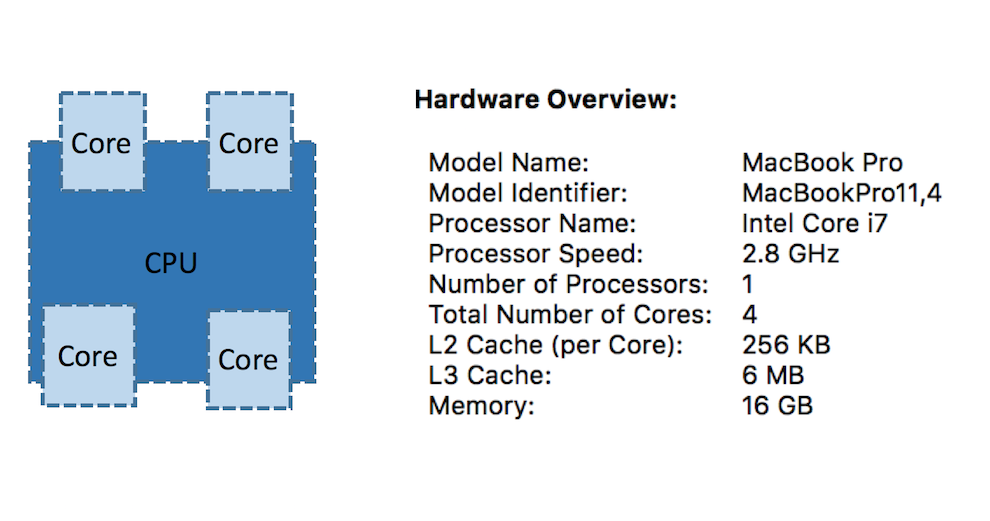
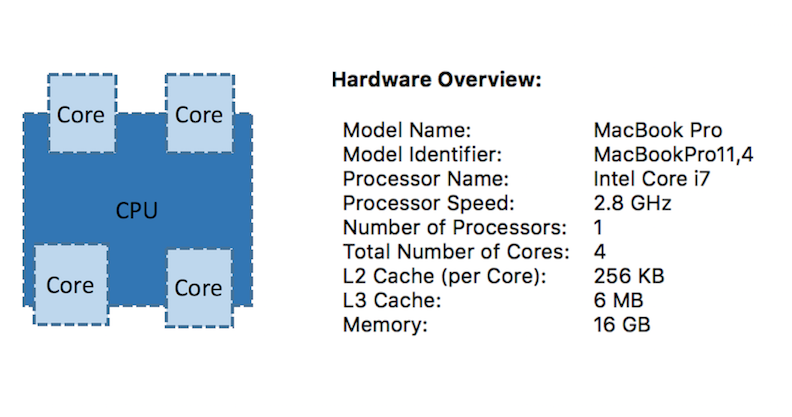
fix image file sizes

diff --git a/index.html b/index.html
@@ -70,8 +70,8 @@
             </section>
                 <section>
                 <h2>My local environment<br></h2>
-                	<img src="img/environment.png" height="300" width="500">
-                <img src="img/threadscores.png" height="300" width="500">
+                	<img src="img/environment.png">
+                <img src="img/threadscores.png">
 
 
 
@@ -167,11 +167,9 @@
                 </section>
 
             <section>
-                <h3>We should now write some Python</h3>
+                <h3>We should write some Python now</h3>
 
-                <center><code>mapreduce.py</code></center>
-
-
+                <h5><center><code>mapreduce.py</code></center></h5>
                 <ol>
                     <li> <pre><code>get_filenames</code>Read in all text files</pre>
                     <li> <pre><code>get_data</code>Do text processing (strip/split)</pre>
@@ -362,12 +360,10 @@ PID    COMMAND      %CPU  TIME     #TH       STATE
 
 					<h3>Speeding it up with PyPy</h3>
 
-                    <p>"If you want your code to run faster, you should probably just use PyPy.” — Guido"
+                    "If you want your code to run faster, you should probably just use PyPy.” — Guido"
 						
-                    	<p>
-					PyPy is an alternate compiler (over CPython).  Good for:
-					+ longer processes
-					+ mostly Python codebases
+                    
+					Good for longer processes, mostly Python codebases.
 <pre>
                      <code class="python" data-trim="">
                     vboykis$ time pypy mapreduce.py
